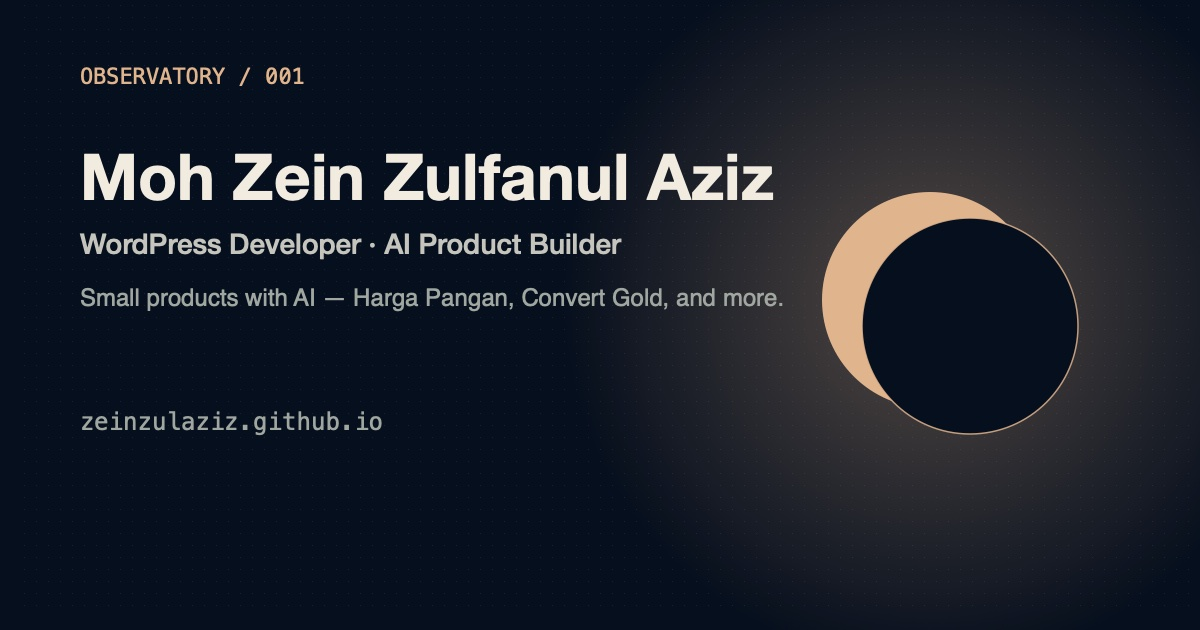
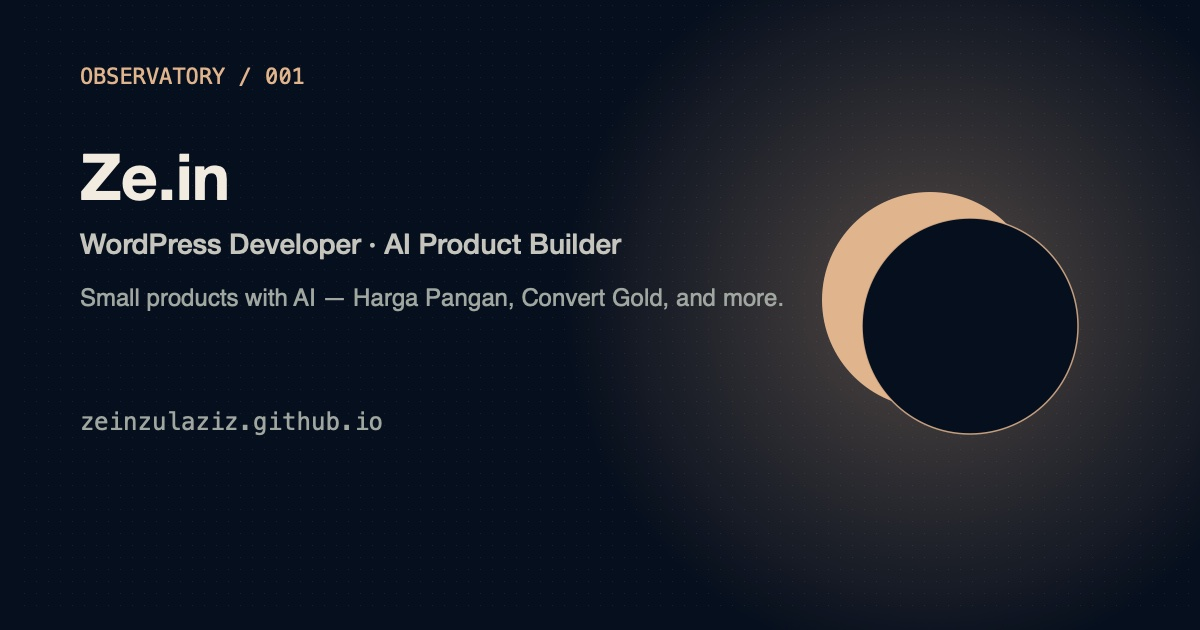
feat: rebrand site name to Ze.in

Changed region(s): [[0.0617, 0.2413, 0.6475, 0.3317]]

diff --git a/index.html b/index.html
@@ -3,12 +3,12 @@
 <head>
   <meta charset="UTF-8">
   <meta name="viewport" content="width=device-width, initial-scale=1.0">
-  <title>Moh Zein Zulfanul Aziz · WordPress Developer &amp; AI Product Builder</title>
-  <meta name="description" content="I'm Moh Zein Zulfanul Aziz, a WordPress developer at Fanaloka in East Java, Indonesia. I build my own products with AI, including Harga Pangan, a free food price dashboard.">
+  <title>Ze.in · WordPress Developer &amp; AI Product Builder</title>
+  <meta name="description" content="I'm Ze.in, a WordPress developer at Fanaloka in East Java, Indonesia. I build my own products with AI, including Harga Pangan, a free food price dashboard.">
   <meta name="color-scheme" content="dark light">
   <meta name="theme-color" content="#080d16">
   <link rel="canonical" href="https://zeinzulaziz.github.io/">
-  <meta property="og:title" content="Moh Zein Zulfanul Aziz · WordPress Developer &amp; AI Product Builder">
+  <meta property="og:title" content="Ze.in · WordPress Developer &amp; AI Product Builder">
   <meta property="og:description" content="I'm a WordPress developer at Fanaloka in East Java, Indonesia, and I build my own products with AI, including Harga Pangan, a free food price dashboard.">
   <meta property="og:type" content="website">
   <meta property="og:url" content="https://zeinzulaziz.github.io/">
@@ -16,7 +16,7 @@
   <meta property="og:image:width" content="1200">
   <meta property="og:image:height" content="630">
   <meta name="twitter:card" content="summary_large_image">
-  <link rel="alternate" type="application/atom+xml" title="Blog · Moh Zein Zulfanul Aziz" href="feed.xml">
+  <link rel="alternate" type="application/atom+xml" title="Blog · Ze.in" href="feed.xml">
   <link rel="preload" href="assets/fonts/space-grotesk.woff2" as="font" type="font/woff2" crossorigin>
   <link rel="preload" href="assets/fonts/ibm-plex-sans.woff2" as="font" type="font/woff2" crossorigin>
   <link rel="stylesheet" href="assets/css/style.css">
@@ -28,7 +28,7 @@
   {
     "@context": "https://schema.org",
     "@type": "Person",
-    "name": "Moh Zein Zulfanul Aziz",
+    "name": "Ze.in",
     "jobTitle": "WordPress Developer & AI Product Builder",
     "url": "https://zeinzulaziz.github.io/",
     "image": "https://zeinzulaziz.github.io/assets/img/avatar.svg",
@@ -65,7 +65,7 @@
 
   <header class="site-header">
     <nav class="container nav" aria-label="Primary">
-      <a class="nav-brand" href="index.html"><span class="mark" aria-hidden="true"></span>Zein Aziz</a>
+      <a class="nav-brand" href="index.html"><span class="mark" aria-hidden="true"></span>Ze.in</a>
       <div class="nav-right">
         <div class="nav-links" id="nav-menu">
           <a href="#projects">Projects</a>
@@ -103,7 +103,7 @@
             <span class="bar" aria-hidden="true"></span>
             Observatory / East Java
           </p>
-          <h1 class="display reveal" style="--d:60ms">Moh Zein<br>Zulfanul<br>Aziz</h1>
+          <h1 class="display reveal" style="--d:60ms">Ze.in</h1>
           <p class="role reveal" style="--d:120ms">WordPress Developer · AI Product Builder</p>
           <p class="lede reveal" style="--d:180ms">
             I build and maintain WordPress websites, and I make my own products
@@ -221,7 +221,7 @@
             </div>
           </div>
 
-          <img class="about-photo reveal" src="assets/img/avatar.svg" alt="Moh Zein Zulfanul Aziz" width="460" height="460" loading="lazy" decoding="async">
+          <img class="about-photo reveal" src="assets/img/avatar.svg" alt="Ze.in" width="460" height="460" loading="lazy" decoding="async">
         </div>
 
         <div class="about-records">
@@ -283,7 +283,7 @@
 
   <footer class="site-footer">
     <div class="container footer-inner">
-      <p>© <span id="year"></span> Moh Zein Zulfanul Aziz</p>
+      <p>© <span id="year"></span> Ze.in</p>
       <p>Hand-coded HTML, CSS, and JavaScript. Eclipse rendered with <a href="https://threejs.org" target="_blank" rel="noopener">three.js</a> (MIT). <a href="https://github.com/zeinzulaziz" target="_blank" rel="noopener">Source on GitHub</a>.</p>
     </div>
   </footer>

diff --git a/post/github-repo-highest-stars/index.html b/post/github-repo-highest-stars/index.html
@@ -3,7 +3,7 @@
 <head>
   <meta charset="UTF-8">
   <meta name="viewport" content="width=device-width, initial-scale=1.0">
-  <title>A list of the 20 GitHub repositories with the highest number of stars currently · Moh Zein Zulfanul Aziz</title>
+  <title>A list of the 20 GitHub repositories with the highest number of stars currently · Ze.in</title>
   <meta name="description" content="Daftar 20 repositori GitHub dengan bintang terbanyak saat ini — dari panduan build-your-own-x sampai kumpulan API gratis — lengkap dengan ringkasan isi dan kisaran bintang tiap repo.">
   <meta name="color-scheme" content="dark light">
   <meta name="theme-color" content="#080d16">
@@ -18,7 +18,7 @@
   <meta name="twitter:card" content="summary_large_image">
   <meta property="article:published_time" content="2026-10-15T00:00:00+07:00">
   <meta property="article:tag" content="github">
-  <link rel="alternate" type="application/atom+xml" title="Blog · Moh Zein Zulfanul Aziz" href="/feed.xml">
+  <link rel="alternate" type="application/atom+xml" title="Blog · Ze.in" href="/feed.xml">
   <link rel="preload" href="/assets/fonts/space-grotesk.woff2" as="font" type="font/woff2" crossorigin>
   <link rel="preload" href="/assets/fonts/ibm-plex-sans.woff2" as="font" type="font/woff2" crossorigin>
   <link rel="stylesheet" href="/assets/css/style.css">
@@ -35,14 +35,14 @@
       } catch (e) {}
     })();
   </script>
-  <script type="application/ld+json">{"@context":"https://schema.org","@type":"BlogPosting","headline":"A list of the 20 GitHub repositories with the highest number of stars currently","description":"Daftar 20 repositori GitHub dengan bintang terbanyak saat ini — dari panduan build-your-own-x sampai kumpulan API gratis — lengkap dengan ringkasan isi dan kisaran bintang tiap repo.","datePublished":"2026-10-15T00:00:00+07:00","author":{"@type":"Person","name":"Moh Zein Zulfanul Aziz","url":"https://zeinzulaziz.github.io/"},"mainEntityOfPage":{"@type":"WebPage","@id":"https://zeinzulaziz.github.io/post/github-repo-highest-stars/"},"image":"https://zeinzulaziz.github.io/assets/img/og.jpg","keywords":"github"}</script>
+  <script type="application/ld+json">{"@context":"https://schema.org","@type":"BlogPosting","headline":"A list of the 20 GitHub repositories with the highest number of stars currently","description":"Daftar 20 repositori GitHub dengan bintang terbanyak saat ini — dari panduan build-your-own-x sampai kumpulan API gratis — lengkap dengan ringkasan isi dan kisaran bintang tiap repo.","datePublished":"2026-10-15T00:00:00+07:00","author":{"@type":"Person","name":"Ze.in","url":"https://zeinzulaziz.github.io/"},"mainEntityOfPage":{"@type":"WebPage","@id":"https://zeinzulaziz.github.io/post/github-repo-highest-stars/"},"image":"https://zeinzulaziz.github.io/assets/img/og.jpg","keywords":"github"}</script>
 </head>
 <body>
   <a class="skip-link" href="#main">Skip to content</a>
 
   <header class="site-header">
     <nav class="container nav" aria-label="Primary">
-      <a class="nav-brand" href="/"><span class="mark" aria-hidden="true"></span>Zein Aziz</a>
+      <a class="nav-brand" href="/"><span class="mark" aria-hidden="true"></span>Ze.in</a>
       <div class="nav-right">
         <div class="nav-links" id="nav-menu">
           <a href="/#projects">Projects</a>
@@ -79,7 +79,7 @@
 
   <footer class="site-footer">
     <div class="container footer-inner">
-      <p>&copy; <span id="year"></span> Moh Zein Zulfanul Aziz</p>
+      <p>&copy; <span id="year"></span> Ze.in</p>
       <p>Hand-coded HTML, CSS, and JavaScript. <a href="https://github.com/zeinzulaziz" target="_blank" rel="noopener">Source on GitHub</a>.</p>
     </div>
   </footer>

diff --git a/post/skill-dino-patti/index.html b/post/skill-dino-patti/index.html
@@ -3,7 +3,7 @@
 <head>
   <meta charset="UTF-8">
   <meta name="viewport" content="width=device-width, initial-scale=1.0">
-  <title>Skill Paling Berguna Sepanjang Hidup - Dino Patti Djalal · Moh Zein Zulfanul Aziz</title>
+  <title>Skill Paling Berguna Sepanjang Hidup - Dino Patti Djalal · Ze.in</title>
   <meta name="description" content="Menurut Pak Dino Patti Djalal, belajar logika adalah skill atau perangkat lunak ( software ) yang paling berguna sepanjang hidup (29:33 29:58). Berikut adalah beberapa manfaat…">
   <meta name="color-scheme" content="dark light">
   <meta name="theme-color" content="#080d16">
@@ -18,7 +18,7 @@
   <meta name="twitter:card" content="summary_large_image">
   <meta property="article:published_time" content="2026-10-20T00:00:00+07:00">
   <meta property="article:tag" content="youtube">
-  <link rel="alternate" type="application/atom+xml" title="Blog · Moh Zein Zulfanul Aziz" href="/feed.xml">
+  <link rel="alternate" type="application/atom+xml" title="Blog · Ze.in" href="/feed.xml">
   <link rel="preload" href="/assets/fonts/space-grotesk.woff2" as="font" type="font/woff2" crossorigin>
   <link rel="preload" href="/assets/fonts/ibm-plex-sans.woff2" as="font" type="font/woff2" crossorigin>
   <link rel="stylesheet" href="/assets/css/style.css">
@@ -35,14 +35,14 @@
       } catch (e) {}
     })();
   </script>
-  <script type="application/ld+json">{"@context":"https://schema.org","@type":"BlogPosting","headline":"Skill Paling Berguna Sepanjang Hidup - Dino Patti Djalal","description":"Menurut Pak Dino Patti Djalal, belajar logika adalah skill atau perangkat lunak ( software ) yang paling berguna sepanjang hidup (29:33 29:58). Berikut adalah beberapa manfaat…","datePublished":"2026-10-20T00:00:00+07:00","author":{"@type":"Person","name":"Moh Zein Zulfanul Aziz","url":"https://zeinzulaziz.github.io/"},"mainEntityOfPage":{"@type":"WebPage","@id":"https://zeinzulaziz.github.io/post/skill-dino-patti/"},"image":"https://zeinzulaziz.github.io/assets/img/blog/pasted-image-1792468112146.png","keywords":"youtube"}</script>
+  <script type="application/ld+json">{"@context":"https://schema.org","@type":"BlogPosting","headline":"Skill Paling Berguna Sepanjang Hidup - Dino Patti Djalal","description":"Menurut Pak Dino Patti Djalal, belajar logika adalah skill atau perangkat lunak ( software ) yang paling berguna sepanjang hidup (29:33 29:58). Berikut adalah beberapa manfaat…","datePublished":"2026-10-20T00:00:00+07:00","author":{"@type":"Person","name":"Ze.in","url":"https://zeinzulaziz.github.io/"},"mainEntityOfPage":{"@type":"WebPage","@id":"https://zeinzulaziz.github.io/post/skill-dino-patti/"},"image":"https://zeinzulaziz.github.io/assets/img/blog/pasted-image-1792468112146.png","keywords":"youtube"}</script>
 </head>
 <body>
   <a class="skip-link" href="#main">Skip to content</a>
 
   <header class="site-header">
     <nav class="container nav" aria-label="Primary">
-      <a class="nav-brand" href="/"><span class="mark" aria-hidden="true"></span>Zein Aziz</a>
+      <a class="nav-brand" href="/"><span class="mark" aria-hidden="true"></span>Ze.in</a>
       <div class="nav-right">
         <div class="nav-links" id="nav-menu">
           <a href="/#projects">Projects</a>
@@ -81,7 +81,7 @@
 
   <footer class="site-footer">
     <div class="container footer-inner">
-      <p>&copy; <span id="year"></span> Moh Zein Zulfanul Aziz</p>
+      <p>&copy; <span id="year"></span> Ze.in</p>
       <p>Hand-coded HTML, CSS, and JavaScript. <a href="https://github.com/zeinzulaziz" target="_blank" rel="noopener">Source on GitHub</a>.</p>
     </div>
   </footer>

diff --git a/post/roadmap-grok/index.html b/post/roadmap-grok/index.html
@@ -3,7 +3,7 @@
 <head>
   <meta charset="UTF-8">
   <meta name="viewport" content="width=device-width, initial-scale=1.0">
-  <title>Roadmap dari Grok · Moh Zein Zulfanul Aziz</title>
+  <title>Roadmap dari Grok · Ze.in</title>
   <meta name="description" content="Catatan: roadmap belajar dan membangun dengan AI untuk 3–6 bulan ke depan — kebiasaan ship → feedback → perbaiki lebih penting daripada menghafal tools.">
   <meta name="color-scheme" content="dark light">
   <meta name="theme-color" content="#080d16">
@@ -19,7 +19,7 @@
   <meta property="article:published_time" content="2026-10-10T00:00:00+07:00">
   <meta property="article:tag" content="roadmap">
   <meta property="article:tag" content="grok">
-  <link rel="alternate" type="application/atom+xml" title="Blog · Moh Zein Zulfanul Aziz" href="/feed.xml">
+  <link rel="alternate" type="application/atom+xml" title="Blog · Ze.in" href="/feed.xml">
   <link rel="preload" href="/assets/fonts/space-grotesk.woff2" as="font" type="font/woff2" crossorigin>
   <link rel="preload" href="/assets/fonts/ibm-plex-sans.woff2" as="font" type="font/woff2" crossorigin>
   <link rel="stylesheet" href="/assets/css/style.css">
@@ -36,14 +36,14 @@
       } catch (e) {}
     })();
   </script>
-  <script type="application/ld+json">{"@context":"https://schema.org","@type":"BlogPosting","headline":"Roadmap dari Grok","description":"Catatan: roadmap belajar dan membangun dengan AI untuk 3–6 bulan ke depan — kebiasaan ship → feedback → perbaiki lebih penting daripada menghafal tools.","datePublished":"2026-10-10T00:00:00+07:00","author":{"@type":"Person","name":"Moh Zein Zulfanul Aziz","url":"https://zeinzulaziz.github.io/"},"mainEntityOfPage":{"@type":"WebPage","@id":"https://zeinzulaziz.github.io/post/roadmap-grok/"},"image":"https://zeinzulaziz.github.io/assets/img/og.jpg","keywords":"roadmap, grok"}</script>
+  <script type="application/ld+json">{"@context":"https://schema.org","@type":"BlogPosting","headline":"Roadmap dari Grok","description":"Catatan: roadmap belajar dan membangun dengan AI untuk 3–6 bulan ke depan — kebiasaan ship → feedback → perbaiki lebih penting daripada menghafal tools.","datePublished":"2026-10-10T00:00:00+07:00","author":{"@type":"Person","name":"Ze.in","url":"https://zeinzulaziz.github.io/"},"mainEntityOfPage":{"@type":"WebPage","@id":"https://zeinzulaziz.github.io/post/roadmap-grok/"},"image":"https://zeinzulaziz.github.io/assets/img/og.jpg","keywords":"roadmap, grok"}</script>
 </head>
 <body>
   <a class="skip-link" href="#main">Skip to content</a>
 
   <header class="site-header">
     <nav class="container nav" aria-label="Primary">
-      <a class="nav-brand" href="/"><span class="mark" aria-hidden="true"></span>Zein Aziz</a>
+      <a class="nav-brand" href="/"><span class="mark" aria-hidden="true"></span>Ze.in</a>
       <div class="nav-right">
         <div class="nav-links" id="nav-menu">
           <a href="/#projects">Projects</a>
@@ -104,7 +104,7 @@ Rilis sesuatu meski sederhana, lihat apakah dipakai orang, lalu iterasi. Ini yan
 
   <footer class="site-footer">
     <div class="container footer-inner">
-      <p>&copy; <span id="year"></span> Moh Zein Zulfanul Aziz</p>
+      <p>&copy; <span id="year"></span> Ze.in</p>
       <p>Hand-coded HTML, CSS, and JavaScript. <a href="https://github.com/zeinzulaziz" target="_blank" rel="noopener">Source on GitHub</a>.</p>
     </div>
   </footer>

diff --git a/post/food-price-tracker/index.html b/post/food-price-tracker/index.html
@@ -3,7 +3,7 @@
 <head>
   <meta charset="UTF-8">
   <meta name="viewport" content="width=device-width, initial-scale=1.0">
-  <title>Helping East Java Farmers Know When to Sell: Building a Food Price Tracker · Moh Zein Zulfanul Aziz</title>
+  <title>Helping East Java Farmers Know When to Sell: Building a Food Price Tracker · Ze.in</title>
   <meta name="description" content="A free, open tool that turns historical producer price data into practical guidance for farmers in East Java.">
   <meta name="color-scheme" content="dark light">
   <meta name="theme-color" content="#080d16">
@@ -18,7 +18,7 @@
   <meta name="twitter:card" content="summary_large_image">
   <meta property="article:published_time" content="2026-10-08T00:00:00+07:00">
   <meta property="article:tag" content="blog">
-  <link rel="alternate" type="application/atom+xml" title="Blog · Moh Zein Zulfanul Aziz" href="/feed.xml">
+  <link rel="alternate" type="application/atom+xml" title="Blog · Ze.in" href="/feed.xml">
   <link rel="preload" href="/assets/fonts/space-grotesk.woff2" as="font" type="font/woff2" crossorigin>
   <link rel="preload" href="/assets/fonts/ibm-plex-sans.woff2" as="font" type="font/woff2" crossorigin>
   <link rel="stylesheet" href="/assets/css/style.css">
@@ -35,14 +35,14 @@
       } catch (e) {}
     })();
   </script>
-  <script type="application/ld+json">{"@context":"https://schema.org","@type":"BlogPosting","headline":"Helping East Java Farmers Know When to Sell: Building a Food Price Tracker","description":"A free, open tool that turns historical producer price data into practical guidance for farmers in East Java.","datePublished":"2026-10-08T00:00:00+07:00","author":{"@type":"Person","name":"Moh Zein Zulfanul Aziz","url":"https://zeinzulaziz.github.io/"},"mainEntityOfPage":{"@type":"WebPage","@id":"https://zeinzulaziz.github.io/post/food-price-tracker/"},"image":"https://zeinzulaziz.github.io/assets/img/og.jpg","keywords":"blog"}</script>
+  <script type="application/ld+json">{"@context":"https://schema.org","@type":"BlogPosting","headline":"Helping East Java Farmers Know When to Sell: Building a Food Price Tracker","description":"A free, open tool that turns historical producer price data into practical guidance for farmers in East Java.","datePublished":"2026-10-08T00:00:00+07:00","author":{"@type":"Person","name":"Ze.in","url":"https://zeinzulaziz.github.io/"},"mainEntityOfPage":{"@type":"WebPage","@id":"https://zeinzulaziz.github.io/post/food-price-tracker/"},"image":"https://zeinzulaziz.github.io/assets/img/og.jpg","keywords":"blog"}</script>
 </head>
 <body>
   <a class="skip-link" href="#main">Skip to content</a>
 
   <header class="site-header">
     <nav class="container nav" aria-label="Primary">
-      <a class="nav-brand" href="/"><span class="mark" aria-hidden="true"></span>Zein Aziz</a>
+      <a class="nav-brand" href="/"><span class="mark" aria-hidden="true"></span>Ze.in</a>
       <div class="nav-right">
         <div class="nav-links" id="nav-menu">
           <a href="/#projects">Projects</a>
@@ -97,7 +97,7 @@
 
   <footer class="site-footer">
     <div class="container footer-inner">
-      <p>&copy; <span id="year"></span> Moh Zein Zulfanul Aziz</p>
+      <p>&copy; <span id="year"></span> Ze.in</p>
       <p>Hand-coded HTML, CSS, and JavaScript. <a href="https://github.com/zeinzulaziz" target="_blank" rel="noopener">Source on GitHub</a>.</p>
     </div>
   </footer>

diff --git a/post.html b/post.html
@@ -3,18 +3,18 @@
 <head>
   <meta charset="UTF-8">
   <meta name="viewport" content="width=device-width, initial-scale=1.0">
-  <title>Post · Moh Zein Zulfanul Aziz</title>
-  <meta name="description" content="An article by Moh Zein Zulfanul Aziz on WordPress development, JavaScript, and building products with AI.">
+  <title>Post · Ze.in</title>
+  <meta name="description" content="An article by Ze.in on WordPress development, JavaScript, and building products with AI.">
   <meta name="color-scheme" content="dark light">
   <meta name="theme-color" content="#080d16">
-  <meta property="og:title" content="Post · Moh Zein Zulfanul Aziz">
-  <meta property="og:description" content="An article by Moh Zein Zulfanul Aziz on WordPress development, JavaScript, and building products with AI.">
+  <meta property="og:title" content="Post · Ze.in">
+  <meta property="og:description" content="An article by Ze.in on WordPress development, JavaScript, and building products with AI.">
   <meta property="og:type" content="article">
   <meta property="og:image" content="https://zeinzulaziz.github.io/assets/img/og.jpg">
   <meta property="og:image:width" content="1200">
   <meta property="og:image:height" content="630">
   <meta name="twitter:card" content="summary_large_image">
-  <link rel="alternate" type="application/atom+xml" title="Blog · Moh Zein Zulfanul Aziz" href="feed.xml">
+  <link rel="alternate" type="application/atom+xml" title="Blog · Ze.in" href="feed.xml">
   <link rel="preconnect" href="https://api.github.com" crossorigin>
   <link rel="preconnect" href="https://raw.githubusercontent.com" crossorigin>
   <link rel="preload" href="assets/fonts/space-grotesk.woff2" as="font" type="font/woff2" crossorigin>
@@ -41,7 +41,7 @@
 
   <header class="site-header">
     <nav class="container nav" aria-label="Primary">
-      <a class="nav-brand" href="index.html"><span class="mark" aria-hidden="true"></span>Zein Aziz</a>
+      <a class="nav-brand" href="index.html"><span class="mark" aria-hidden="true"></span>Ze.in</a>
       <div class="nav-right">
         <div class="nav-links" id="nav-menu">
           <a href="index.html#projects">Projects</a>
@@ -72,7 +72,7 @@
 
   <footer class="site-footer">
     <div class="container footer-inner">
-      <p>© <span id="year"></span> Moh Zein Zulfanul Aziz</p>
+      <p>© <span id="year"></span> Ze.in</p>
       <p>Hand-coded HTML, CSS, and JavaScript. <a href="https://github.com/zeinzulaziz" target="_blank" rel="noopener">Source on GitHub</a>.</p>
     </div>
   </footer>

diff --git a/blog.html b/blog.html
@@ -3,12 +3,12 @@
 <head>
   <meta charset="UTF-8">
   <meta name="viewport" content="width=device-width, initial-scale=1.0">
-  <title>Blog · Moh Zein Zulfanul Aziz</title>
+  <title>Blog · Ze.in</title>
   <meta name="description" content="Articles and short notes on WordPress development, JavaScript, and building small products with AI.">
   <meta name="color-scheme" content="dark light">
   <meta name="theme-color" content="#080d16">
   <link rel="canonical" href="https://zeinzulaziz.github.io/blog.html">
-  <meta property="og:title" content="Blog · Moh Zein Zulfanul Aziz">
+  <meta property="og:title" content="Blog · Ze.in">
   <meta property="og:description" content="Articles and short notes on WordPress development, JavaScript, and building small products with AI.">
   <meta property="og:type" content="website">
   <meta property="og:url" content="https://zeinzulaziz.github.io/blog.html">
@@ -16,7 +16,7 @@
   <meta property="og:image:width" content="1200">
   <meta property="og:image:height" content="630">
   <meta name="twitter:card" content="summary_large_image">
-  <link rel="alternate" type="application/atom+xml" title="Blog · Moh Zein Zulfanul Aziz" href="feed.xml">
+  <link rel="alternate" type="application/atom+xml" title="Blog · Ze.in" href="feed.xml">
   <link rel="preconnect" href="https://api.github.com" crossorigin>
   <link rel="preconnect" href="https://raw.githubusercontent.com" crossorigin>
   <link rel="preload" href="assets/fonts/space-grotesk.woff2" as="font" type="font/woff2" crossorigin>
@@ -43,7 +43,7 @@
 
   <header class="site-header">
     <nav class="container nav" aria-label="Primary">
-      <a class="nav-brand" href="index.html"><span class="mark" aria-hidden="true"></span>Zein Aziz</a>
+      <a class="nav-brand" href="index.html"><span class="mark" aria-hidden="true"></span>Ze.in</a>
       <div class="nav-right">
         <div class="nav-links" id="nav-menu">
           <a href="index.html#projects">Projects</a>
@@ -93,7 +93,7 @@
 
   <footer class="site-footer">
     <div class="container footer-inner">
-      <p>© <span id="year"></span> Moh Zein Zulfanul Aziz</p>
+      <p>© <span id="year"></span> Ze.in</p>
       <p>Hand-coded HTML, CSS, and JavaScript. <a href="https://github.com/zeinzulaziz" target="_blank" rel="noopener">Source on GitHub</a>.</p>
     </div>
   </footer>

diff --git a/404.html b/404.html
@@ -3,8 +3,8 @@
 <head>
   <meta charset="UTF-8">
   <meta name="viewport" content="width=device-width, initial-scale=1.0">
-  <title>Page not found · Moh Zein Zulfanul Aziz</title>
-  <meta name="description" content="This page does not exist. Back to the portfolio of Moh Zein Zulfanul Aziz.">
+  <title>Page not found · Ze.in</title>
+  <meta name="description" content="This page does not exist. Back to the portfolio of Ze.in.">
   <meta name="robots" content="noindex">
   <meta name="color-scheme" content="dark light">
   <meta name="theme-color" content="#080d16">
@@ -28,7 +28,7 @@
 
   <header class="site-header">
     <nav class="container nav" aria-label="Primary">
-      <a class="nav-brand" href="/"><span class="mark" aria-hidden="true"></span>Zein Aziz</a>
+      <a class="nav-brand" href="/"><span class="mark" aria-hidden="true"></span>Ze.in</a>
       <div class="nav-right">
         <div class="nav-links" id="nav-menu">
           <a href="/#projects">Projects</a>
@@ -73,7 +73,7 @@
 
   <footer class="site-footer">
     <div class="container footer-inner">
-      <p>&copy; <span id="year"></span> Moh Zein Zulfanul Aziz</p>
+      <p>&copy; <span id="year"></span> Ze.in</p>
       <p>Hand-coded HTML, CSS, and JavaScript. <a href="https://github.com/zeinzulaziz" target="_blank" rel="noopener">Source on GitHub</a>.</p>
     </div>
   </footer>

diff --git a/tools/make-og.swift b/tools/make-og.swift
@@ -72,7 +72,7 @@ func drawText(_ s: String, size: CGFloat, x: Int, y: Int, font: String, color: C
 // Brand tag (mono, metadata voice)
 drawText("OBSERVATORY / 001", size: 22, x: 80, y: H - 84, font: "Menlo-Regular", color: copper)
 // Name in display weight, role and lede below in quieter tones.
-drawText("Moh Zein Zulfanul Aziz", size: 64, x: 80, y: H - 200, font: "HelveticaNeue-Bold", color: ink)
+drawText("Ze.in", size: 64, x: 80, y: H - 200, font: "HelveticaNeue-Bold", color: ink)
 drawText("WordPress Developer · AI Product Builder", size: 28, x: 80, y: H - 254,
          font: "HelveticaNeue-Medium", color: inkSoft)
 drawText("Small products with AI — Harga Pangan, Convert Gold, and more.", size: 24,

diff --git a/assets/js/blog.js b/assets/js/blog.js
@@ -426,7 +426,7 @@
     var root = document.getElementById("postRoot");
     if (!root) return;
 
-    document.title = post.title + " · Moh Zein Zulfanul Aziz";
+    document.title = post.title + " · Ze.in";
     var desc = document.querySelector('meta[name="description"]');
     if (desc && post.description) desc.setAttribute("content", post.description);
 

diff --git a/DESIGN.md b/DESIGN.md
@@ -13,7 +13,7 @@ departs from that reference.
 
 ## Identity
 
-Personal portfolio of Moh Zein Zulfanul Aziz, a WordPress developer and solo
+Personal portfolio of Ze.in, a WordPress developer and solo
 builder of small AI products based in East Java, Indonesia. The site exists to
 show real public work and writing, and to make contact easy.
 
